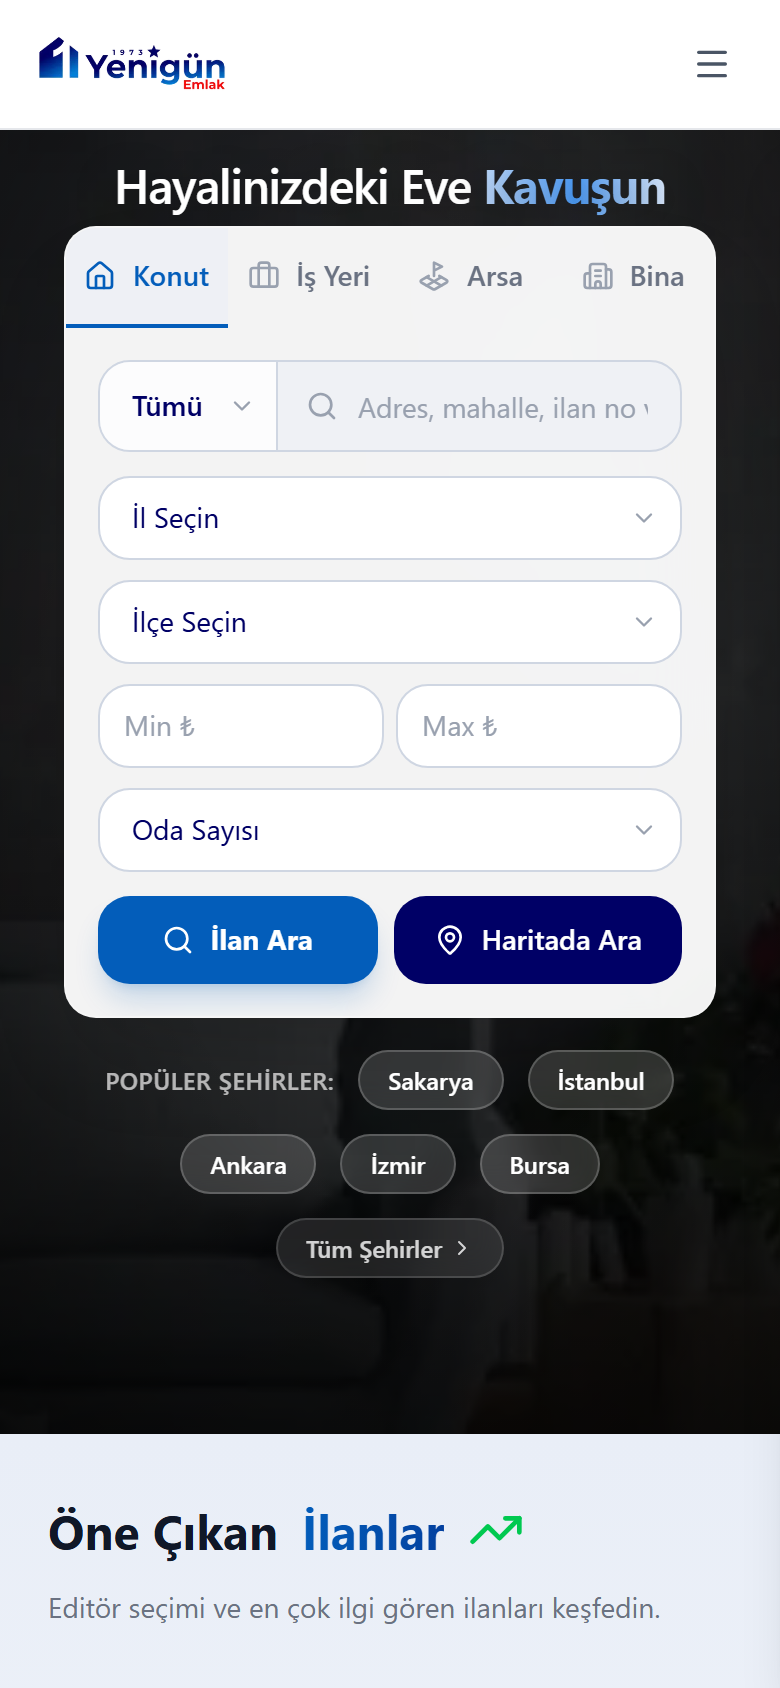
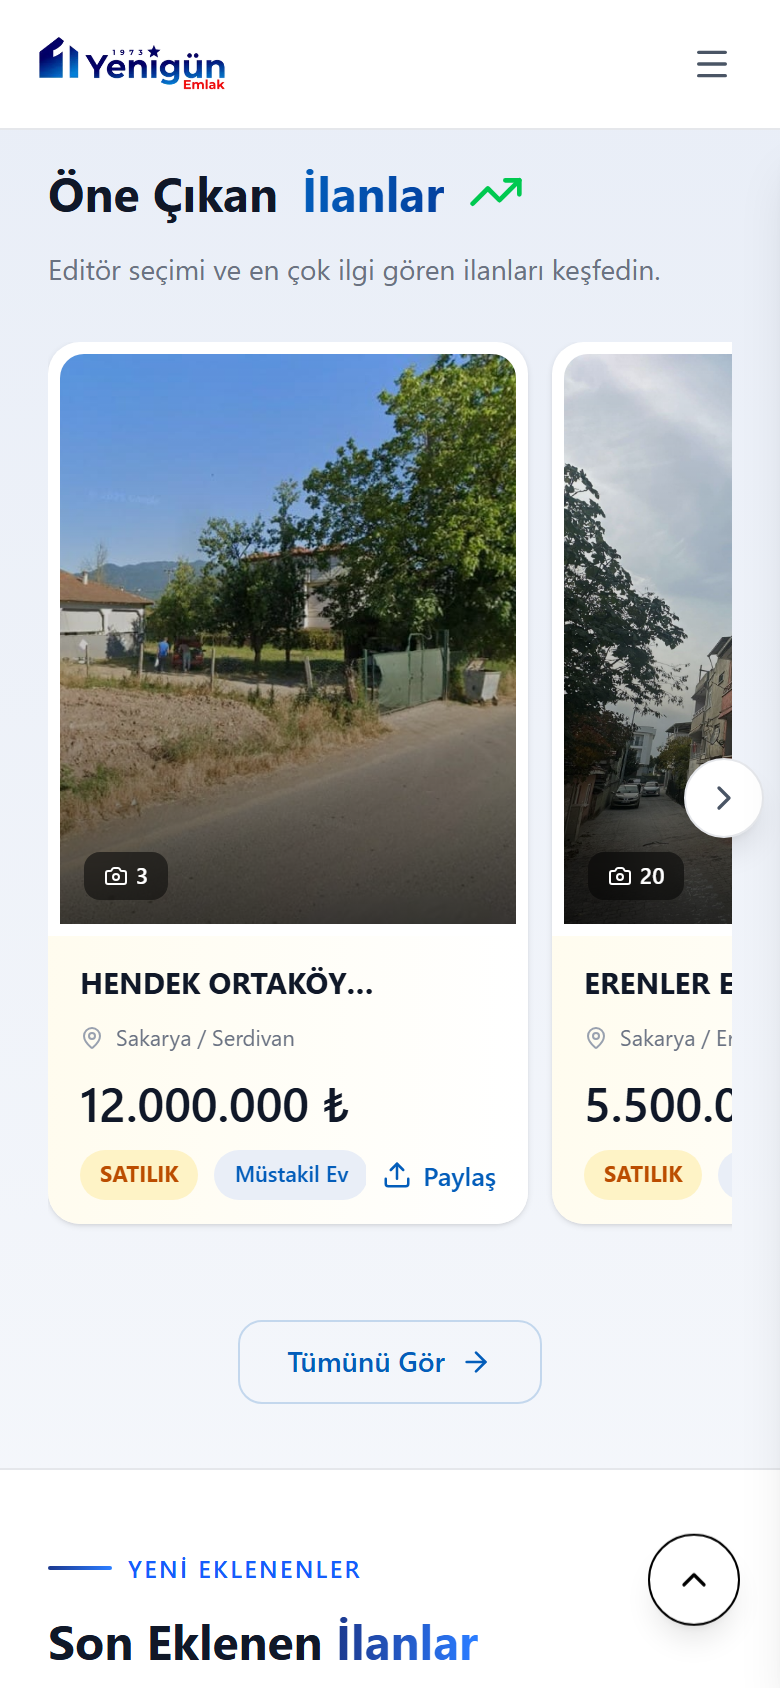
content(tr): working hours read "Hafta içi akşam · Hafta sonu"; hero shot shows listings
Both working-hours strings, the hero meta line and the contact panel's
"Çalışma saatleri", now say the same thing. The hero screenshot is
recaptured at 390x844 scrolled to "Öne Çıkan İlanlar", so the 280px crop
shows the heading and the listing cards instead of the search form.

diff --git a/src/features/local/sections/HeroShot.tsx b/src/features/local/sections/HeroShot.tsx
@@ -28,8 +28,9 @@ export default function HeroShot({ className }: { className?: string }): React.J
       <div className="min-w-0 rounded-[var(--radius-sm)] border border-[var(--edge-soft)] bg-[var(--surface)] p-4">
         {/* Phone width, not column width: a 390px screenshot stretched to a
             600px column is a blur. The box is cropped to roughly the plate's
-            height so the two columns read as one row; object-top keeps the
-            search card and the city chips in view. */}
+            height so the two columns read as one row; the capture is scrolled
+            to the featured listings, so object-top keeps the heading and the
+            listing cards in view. */}
         <div className="relative mx-auto aspect-[39/70] w-full max-w-[280px] overflow-hidden rounded-[var(--radius-sm)] border border-[var(--edge-soft)] bg-[var(--ground)]">
           <Image
             src={SHOT.src}
